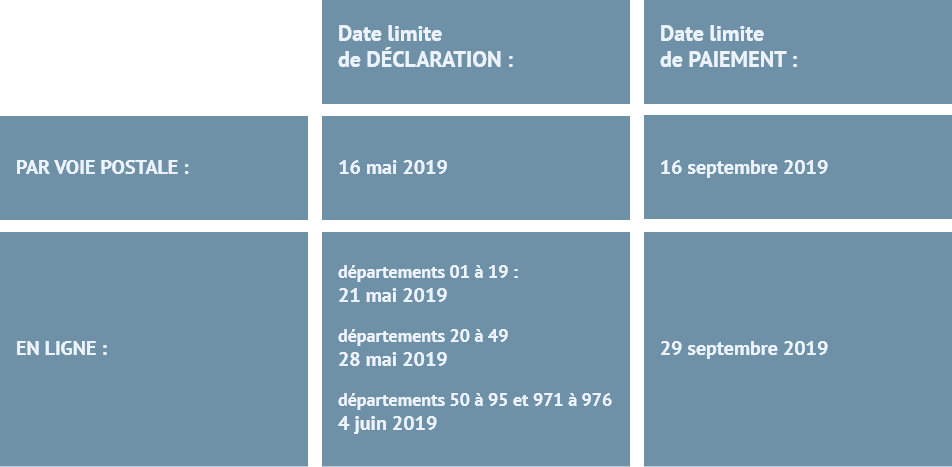
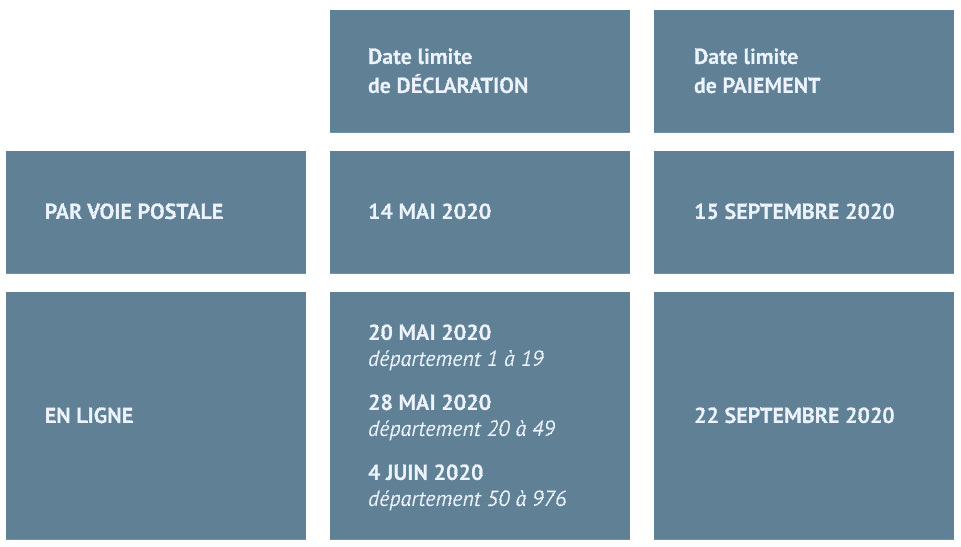
[*] modifs maquettes

Changed region(s): [[0.0, 0.0, 1.0, 1.0]]

diff --git a/ifi-passerelles-davenir/index.html b/ifi-passerelles-davenir/index.html
@@ -251,7 +251,7 @@
         var reduc = document.getElementById("reducIR");
         var don = document.getElementById("montantDonReducIR");
         var btn = document.getElementById("btnDonIR");
-        if (parseInt(montant.value) > 546) {
+        if (parseInt(montant.value) > 552) {
             reduc.value = setPrecision(parseInt(montant.value) * 0.66);
             don.value = setPrecision(parseInt(montant.value) - parseInt(montant.value) * 0.66);
         } else {
@@ -306,11 +306,16 @@
                 </div>
                 <div data-sticky-container>
                     <div id="topBar" class="grid-x align-stretch noSideMargin align-spaced sticky" data-sticky data-margin-top="0">
-                        <div class="cell large-offset-2 logo shrink show-for-medium ">
+                        <div class="cell large-offset-2 small-2 logo show-for-medium ">
                             <div class="grid-x align-middle">
                                 <div class="cell small-2 large-offset-1  medium-2 text-center" id="logoContainer">
                                     <a href="http://miedepain.asso.fr/" target="blank" onclick="woopra.track('interaction', {category:'CTA-LOGO_IFI19',action:'clic',url:document.location.href,title: document.title});">
                                         <img src="assets/logo.png" alt="Logo Mie de Pain" class="logo">
+                                    </a>
+                                </div>
+                                <div class="cell auto text-center">
+                                    <a href="">
+                                    <p class="ptSans fs20 whiteText padding30 noVerticalMargin">Retourner <br>vers le site</p>
                                     </a>
                                 </div>
                             </div>
@@ -883,6 +888,7 @@
                                                 </div>
                                             </div>
                                         </div>
+                                        <p class="fs16 sourceSans blueText">Pour des raisons de confidentialité, la photographie a été modifiée</p>
                                     </div>
                                 </div>
                                 <div class="cell small-2">
@@ -912,7 +918,8 @@
     <div class="grid-x align-center title">
         <div class="cell small-12 medium-8">
             <p class="whiteText ptSans fs38 bold text-center lh2" style="padding: 10px">
-                Soutenez notre programme PASSERELLES D’AVENIR <br class="show-for-large">et réduisez votre impôt&nbsp;!
+                Soutenez notre programme RÉDUCTION FISCALES <br class="show-for-large">
+                ET IMPACT SOCIAL, et réduisez votre impôt&nbsp;!
             </p>
         </div>
         <div class="cell small-5 arrow">
@@ -994,7 +1001,7 @@
                             <div class="grid-x align-center height-100">
                                 <div class="cell small-8 large-12 align-self-middle">
                                     <p class="darkGreyText ptSans fs20 text-center" style="line-height: 1.1rem">
-                                        Vous pouvez déduire 75% de votre <br class="show-for-large">don à la Mie de Pain lorsque le  <br class="show-for-large">montant de votre don est inférieur ou  <br class="show-for-large">égal à 546&nbsp;€ (plafond annuel 2019, tous <br class="show-for-large"> organismes éligibles confondus).
+                                        Vous pouvez déduire 75% de votre <br class="show-for-large">don à la Mie de Pain lorsque le  <br class="show-for-large">montant de votre don est inférieur ou  <br class="show-for-large">égal à 552&nbsp;€ (plafond annuel 2020, tous <br class="show-for-large"> organismes éligibles confondus).
                                     </p>
                                 </div>
                             </div>
@@ -1058,7 +1065,7 @@
                         </div>
                         <div class="cell small-5">
                             <p class="fs20 sourceSans whiteText noVerticalMargin">
-                                Je souhaite calculer le montant de mon IFI 2019
+                                Je souhaite calculer le montant de mon IFI 2020
                             </p>
                         </div>
                     </div>
@@ -1068,7 +1075,7 @@
                         </div>
                         <div class="cell small-5">
                             <p class="fs20 sourceSans whiteText noVerticalMargin">
-                                Je connais le montant de mon IFI 2019
+                                Je connais le montant de mon IFI 2020
                             </p>
                         </div>
                     </div>
@@ -1172,7 +1179,7 @@
                             <div class="grid-x align-middle inputMontants redBG">
                                 <div class="cell small-6 redBG">
                                     <p class="fs18 sourceSans whiteText noVerticalMargin text-right">
-                                        MONTANT NET ESTIMÉ DE MON IFI 2019
+                                        MONTANT NET ESTIMÉ DE MON IFI 2020
                                     </p>
                                 </div>
                                 <div class="cell small-4 redBG">
@@ -1280,7 +1287,7 @@
                                 <a href="https://donner.miedepain.asso.fr/89/?reserved_code_media=WI19-1-P1&amount=20000" class="height-100" onclick="woopra.track('interaction', {category:'CTA-DON-BUDGET_IFI19',action:'clic',url:document.location.href,title: document.title});">
                                     <div class="cell">
                                         <p class="redText fs18 bold ptSans text-center noVerticalMargin">
-                                            JE FAIS UN DON DE <span id="btnDonIFI">XXX</span>&nbsp;€
+                                            JE FAIS UN DON DE <span id="btnDonIFI">XX</span>&nbsp;€
                                         </p>
                                     </div>
                                 </a>
@@ -1294,7 +1301,7 @@
                     <div class="grid-x align-center">
                         <div class="cell small-8">
                             <p class="fs20 whiteText ptSans">
-                                Je fais un don à La Mie de Pain et je bénéficie d’une réduction d’impôt de 75&nbsp;% sur le montant de mon don dans la limite de 546&nbsp;€ (plafond 2019). Au delà, la réduction est de 66&nbsp;%.
+                                Je fais un don à La Mie de Pain et je bénéficie d’une réduction d’impôt de 75&nbsp;% sur le montant de mon don dans la limite de 552&nbsp;€ (plafond 2020). Au delà, la réduction est de 66&nbsp;%.
                             </p>
                         </div>
                     </div>
@@ -1377,7 +1384,7 @@
                                 <a href="https://donner.miedepain.asso.fr/89/?reserved_code_media=WI19-1-P1&amount=20000" class="height-100" onclick="woopra.track('interaction', {category:'CTA-DON-BUDGET_IFI19',action:'clic',url:document.location.href,title: document.title});">
                                     <div class="cell">
                                         <p class="redText fs18 bold ptSans text-center noVerticalMargin">
-                                            JE FAIS UN DON DE <span id="btnDonIR">XXX</span>&nbsp;€
+                                            JE FAIS UN DON DE <span id="btnDonIR">XX</span>&nbsp;€
                                         </p>
                                     </div>
                                 </a>
@@ -1414,6 +1421,9 @@
             <div class="grid-x">
                 <div class="cell">
                     <img src="assets/smallCalendar.png" alt="Calendrier" class="float-center cal">
+                </div>
+                <div class="cell">
+                    <p class="fs20 ptSans whiteText italic text-center">Ces dates sont susceptibles d’être modifiées. Elles sont régulièrement mises à jour sur ce site.</p>
                 </div>
             </div>
             <div class="grid-x align-center content height-100 notDisplay">
@@ -1463,7 +1473,7 @@
                             <div class="grid-x height-100 align-middle">
                                 <div class="cell textBox">
                                     <p class="fs16 ptSans whiteText bold noVerticalMargin">
-                                        16 mai 2019
+                                        16 mai 2020
                                     </p>
                                 </div>
                             </div>
@@ -1473,12 +1483,12 @@
                                 <div class="cell textBox">
                                     <p class="fs14 ptSans whiteText bold noVerticalMargin">
                                         départements 01 à 19 :<br>
-                                        21 mai 2019
+                                        21 mai 2020
                                         <br><br class="show-for-large">
-                                        départements 20 à 49 : <br>28 mai 2019
+                                        départements 20 à 49 : <br>28 mai 2020
                                         <br><br class="show-for-large">
                                         départements 50 à 95 et 971 à 976&nbsp;:<br>
-                                        4 juin 2019
+                                        4 juin 2020
                                     </p>
                                 </div>
                             </div>
@@ -1500,7 +1510,7 @@
                             <div class="grid-x height-100 align-middle">
                                 <div class="cell textBox">
                                     <p class="fs16 ptSans whiteText bold noVerticalMargin">
-                                        16 septembre 2019
+                                        16 septembre 2020
                                     </p>
                                 </div>
                             </div>
@@ -1509,7 +1519,7 @@
                             <div class="grid-x height-100 align-middle">
                                 <div class="cell textBox">
                                     <p class="fs16 ptSans whiteText bold noVerticalMargin">
-                                        29 septembre 2019
+                                        29 septembre 2020
                                     </p>
                                 </div>
                             </div>
@@ -1802,7 +1812,7 @@
                     </a>
                 </p>
             </div>
-            <div class="cell small-4 medium-2 medium-offset-6">
+            <div class="cell small-4 medium-2">
                 <a href="https://fr-fr.facebook.com/lamiedepain/" target="_blank">
                     <img src="assets/fb.png" alt="" class="float-right">
                 </a>

diff --git a/ifi-passerelles-davenir/css/app.css b/ifi-passerelles-davenir/css/app.css
@@ -378,7 +378,10 @@ body {
 }
 
 #calc .calendrier img.cal {
-    padding: 10px 0 50px 0;
+    padding: 10px 0 30px 0;
+}
+#calc .calendrier p {
+    padding-bottom: 60px;
 }
 
 #calc .calendrier .first {

diff --git a/ifi-passerelles-davenir/css/utils.css b/ifi-passerelles-davenir/css/utils.css
@@ -15,8 +15,16 @@
     width: 50%;
 }
 
+.width-150 {
+    width: 150px;
+}
+
 .lh0-5 {
     line-height: 0.75rem;
+}
+
+.padding40 {
+    padding: 40px;
 }
 
 .cliquable {
